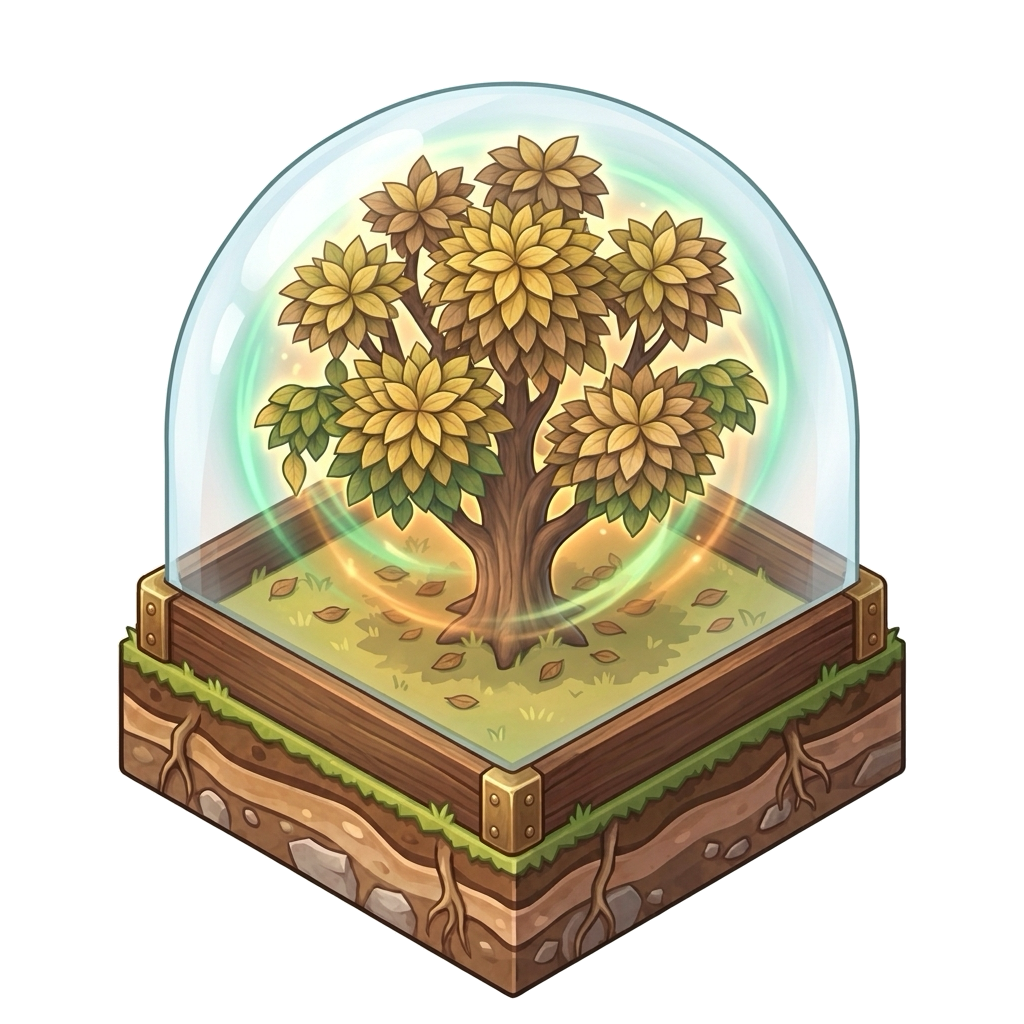
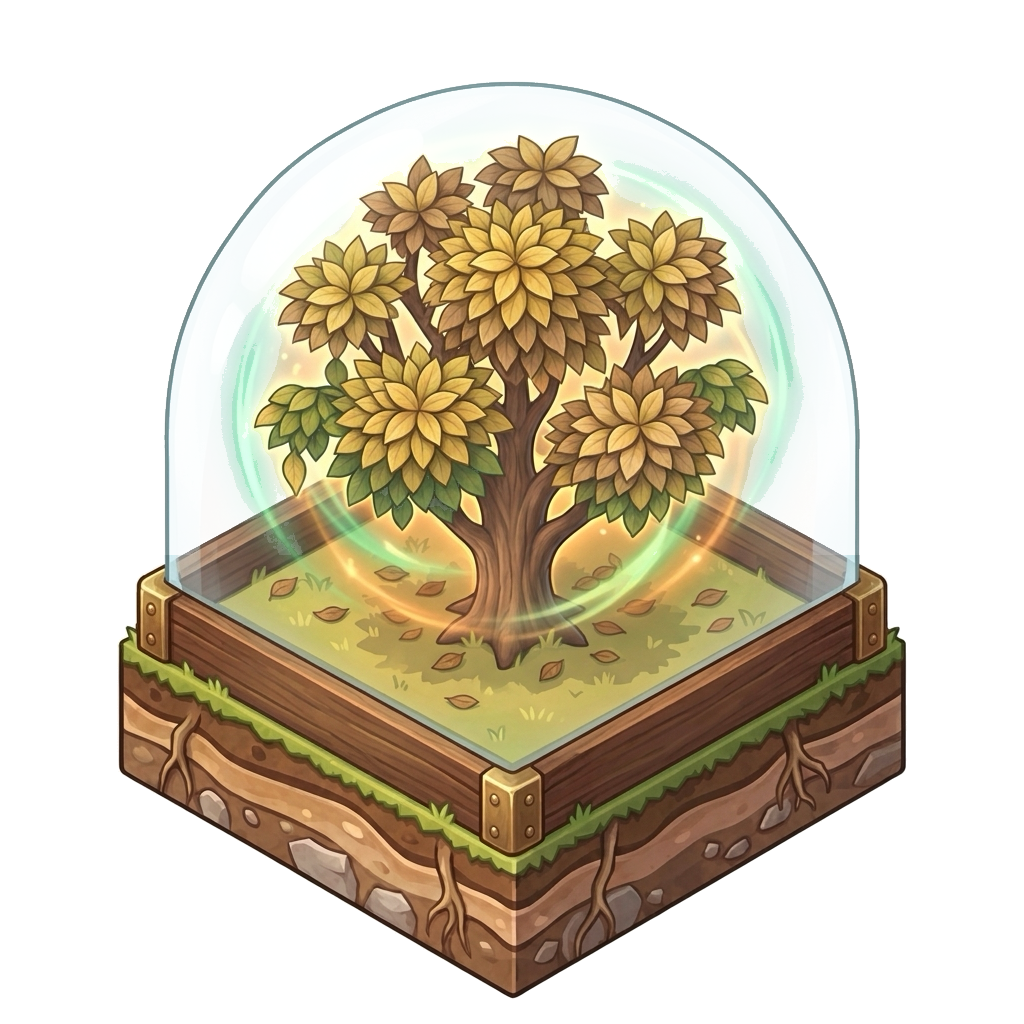
feat(farm): glass transparency, compact scale, adjacent tree cluster, and quarantine spotlight dimming

Changed region(s): [[0.3125, 0.0625, 0.8438, 0.5625], [0.1562, 0.1562, 0.3438, 0.5625], [0.4062, 0.4688, 0.4375, 0.5]]

diff --git a/src/app/farm/[id]/FarmClient.tsx b/src/app/farm/[id]/FarmClient.tsx
@@ -1248,7 +1248,7 @@ export default function FarmClient({
             .slice(0, 4);
     }, [primeTelemetry]);
 
-    // 🛡 Quarantined & Rescued Trees Dataset (Dynamic: 0, 1, 2, or 3 trees)
+    // 🛡 Quarantined & Rescued Trees Dataset (Dynamic: 0, 1, 2, or 3 trees placed adjacent to each other without middle gap)
     const quarantinePreviewList = useMemo(() => {
         const details = primeTelemetry?.quarantinedDetails || [];
         // If no quarantined pairs exist, return empty array (plot stays empty/natural soil)
@@ -1257,7 +1257,7 @@ export default function FarmClient({
         if (details.length === 1) {
             return [{
                 id: 'q_preview_center',
-                c: 2,
+                c: 2.0,
                 r: 5,
                 sym: details[0].sym,
                 ddPct: details[0].ddPct,
@@ -1269,10 +1269,11 @@ export default function FarmClient({
         }
 
         if (details.length === 2) {
+            // 2 Trees: Placed side-by-side touching each other without empty gap in the middle (c: 1.5 & c: 2.5)
             return [
                 {
                     id: 'q_preview_1',
-                    c: 1,
+                    c: 1.5,
                     r: 5,
                     sym: details[0].sym,
                     ddPct: details[0].ddPct,
@@ -1283,7 +1284,7 @@ export default function FarmClient({
                 },
                 {
                     id: 'q_preview_2',
-                    c: 3,
+                    c: 2.5,
                     r: 5,
                     sym: details[1].sym,
                     ddPct: details[1].ddPct,
@@ -1295,10 +1296,11 @@ export default function FarmClient({
             ];
         }
 
+        // 3 Trees: Clustered snugly and touching each other (c: 1.2, 2.0, 2.8)
         return [
             { 
                 id: 'q_preview_1', 
-                c: 1, 
+                c: 1.2, 
                 r: 5, 
                 sym: details[0]?.sym || 'EURJPY',
                 ddPct: details[0]?.ddPct ?? 14.20,
@@ -1309,7 +1311,7 @@ export default function FarmClient({
             },
             { 
                 id: 'q_preview_2', 
-                c: 2, 
+                c: 2.0, 
                 r: 5, 
                 sym: details[1]?.sym || 'GBPJPY',
                 ddPct: details[1]?.ddPct ?? 16.80,
@@ -1320,7 +1322,7 @@ export default function FarmClient({
             },
             { 
                 id: 'q_preview_3', 
-                c: 3, 
+                c: 2.8, 
                 r: 5, 
                 sym: details[2]?.sym || 'USDJPY',
                 ddPct: details[2]?.ddPct ?? 11.50,
@@ -1768,8 +1770,27 @@ export default function FarmClient({
                     style={{ transform: `scale(${isClient ? scale : 1})`, width: '100px', height: '100px' }}
                 >
                     <div className="absolute left-1/2 top-1/2 -ml-[140px] -mt-[360px]">
-                        {/* 🌾 THE ENTIRE MAIN FARM AREA (GENTLY FLOATING SLOWLY) */}
-                        <div className="animate-float-farm">
+                        {/* 🌑 SPOTLIGHT FOCUS BACKDROP WHEN QUARANTINE IS ACTIVE */}
+                        <div 
+                            onClick={(e) => {
+                                if (isQuarantineExpanded || isQuarantineEnlarged) {
+                                    handleCloseQuarantine(e);
+                                }
+                            }}
+                            className={`absolute inset-[-1500px] bg-black/45 backdrop-blur-[1px] transition-all duration-500 z-[19] ${
+                                (isQuarantineExpanded || isQuarantineEnlarged) 
+                                    ? 'opacity-100 pointer-events-auto cursor-pointer' 
+                                    : 'opacity-0 pointer-events-none'
+                            }`} 
+                            title="คลิกพื้นที่ว่างเพื่อกลับสู่มุมมองฟาร์มปกติ"
+                        />
+
+                        {/* 🌾 THE ENTIRE MAIN FARM AREA (GENTLY FLOATING SLOWLY, DIMMED WHEN QUARANTINE IS FOCUSED) */}
+                        <div className={`animate-float-farm transition-all duration-700 ease-out ${
+                            (isQuarantineExpanded || isQuarantineEnlarged)
+                                ? 'opacity-25 blur-[1.5px] brightness-75 scale-[0.98]'
+                                : 'opacity-100 blur-0 brightness-100 scale-100'
+                        }`}>
                         {Array.from({ length: 25 }).map((_, i) => {
                             const c = i % 5;
                             const r = Math.floor(i / 5);
@@ -2034,9 +2055,9 @@ export default function FarmClient({
                                     <div className="w-36 h-36 rounded-full bg-amber-400/15 group-hover:bg-amber-300/25 blur-xl animate-pulse delay-700 transition-all"></div>
                                 </div>
 
-                                {/* Greenhouse Dome Graphic with subtle hover feedback */}
+                                {/* Greenhouse Dome Graphic: Compact & clean scale with subtle hover feedback */}
                                 <div 
-                                    className="absolute inset-0 scale-[0.94] origin-bottom transition-transform duration-300 group-hover:scale-[0.98] drop-shadow-[0_12px_28px_rgba(0,0,0,0.85)]" 
+                                    className="absolute inset-0 scale-[0.78] origin-bottom transition-transform duration-300 group-hover:scale-[0.82] drop-shadow-[0_12px_28px_rgba(0,0,0,0.85)]" 
                                     style={{ marginTop: `${TREE_Y_OFFSET}px` }}
                                 >
                                     <Image
@@ -2053,7 +2074,7 @@ export default function FarmClient({
 
                         {/* 🛡 QUARANTINE & RESCUE PREVIEW TREES (กระจายแสดงเฉพาะเมื่อคลิกขยาย isQuarantineExpanded เท่านั้น) */}
                         {isClient && (portNumber === '97053088' || isPrime) && isQuarantineExpanded && quarantinePreviewList.map((qTree) => {
-                            const tZIndex = (qTree.c + qTree.r) + 20;
+                            const tZIndex = Math.round(qTree.c + qTree.r) + 20;
                             return (
                                 <div
                                     key={`tree_${qTree.id}`}
@@ -2066,8 +2087,8 @@ export default function FarmClient({
                                         height: '280px'
                                     }}
                                 >
-                                    {/* Tree Graphic (Scale down 6% so it's not overly prominent, anchored to ground) */}
-                                    <div className="absolute inset-0 scale-[0.94] origin-bottom" style={{ marginTop: `${TREE_Y_OFFSET}px` }}>
+                                    {/* Tree Graphic: Compact scale (scale-[0.75]) to sit close and not overwhelm the farm */}
+                                    <div className="absolute inset-0 scale-[0.75] origin-bottom transition-all duration-300" style={{ marginTop: `${TREE_Y_OFFSET}px` }}>
                                         <Image
                                             src={qTree.src}
                                             alt={qTree.alt}

diff --git a/src/app/admin/easym-prime-farm/page.tsx b/src/app/admin/easym-prime-farm/page.tsx
@@ -641,11 +641,11 @@ export default function AdminPrimeFarmLabPage() {
             .slice(0, 4);
     }, [telemetry]);
 
-    // 🛡 3 Quarantined & Rescued Trees Dataset
+    // 🛡 3 Quarantined & Rescued Trees Dataset (Adjacent without middle gap)
     const quarantinePreviewList = useMemo(() => [
         { 
             id: 'q_preview_1', 
-            c: 1, 
+            c: 1.2, 
             r: 5, 
             sym: 'EURJPY',
             ddPct: 14.20,
@@ -656,7 +656,7 @@ export default function AdminPrimeFarmLabPage() {
         },
         { 
             id: 'q_preview_2', 
-            c: 2, 
+            c: 2.0, 
             r: 5, 
             sym: 'GBPJPY',
             ddPct: 16.80,
@@ -667,7 +667,7 @@ export default function AdminPrimeFarmLabPage() {
         },
         { 
             id: 'q_preview_3', 
-            c: 3, 
+            c: 2.8, 
             r: 5, 
             sym: 'USDJPY',
             ddPct: 11.50,
@@ -1174,8 +1174,27 @@ export default function AdminPrimeFarmLabPage() {
                     style={{ transform: `scale(${isClient ? scale : 1})`, width: '100px', height: '100px' }}
                 >
                     <div className="absolute left-1/2 top-1/2 -ml-[140px] -mt-[360px]">
-                        {/* 🌾 THE ENTIRE MAIN FARM AREA (GENTLY FLOATING SLOWLY) */}
-                        <div className="animate-float-farm">
+                        {/* 🌑 SPOTLIGHT FOCUS BACKDROP WHEN QUARANTINE IS ACTIVE */}
+                        <div 
+                            onClick={(e) => {
+                                if (isQuarantineExpanded || isQuarantineEnlarged) {
+                                    handleCloseQuarantine(e);
+                                }
+                            }}
+                            className={`absolute inset-[-1500px] bg-black/45 backdrop-blur-[1px] transition-all duration-500 z-[19] ${
+                                (isQuarantineExpanded || isQuarantineEnlarged) 
+                                    ? 'opacity-100 pointer-events-auto cursor-pointer' 
+                                    : 'opacity-0 pointer-events-none'
+                            }`} 
+                            title="คลิกพื้นที่ว่างเพื่อกลับสู่มุมมองฟาร์มปกติ"
+                        />
+
+                        {/* 🌾 THE ENTIRE MAIN FARM AREA (GENTLY FLOATING SLOWLY, DIMMED WHEN QUARANTINE IS FOCUSED) */}
+                        <div className={`animate-float-farm transition-all duration-700 ease-out ${
+                            (isQuarantineExpanded || isQuarantineEnlarged)
+                                ? 'opacity-25 blur-[1.5px] brightness-75 scale-[0.98]'
+                                : 'opacity-100 blur-0 brightness-100 scale-100'
+                        }`}>
                         {Array.from({ length: 25 }).map((_, i) => {
                             const c = i % 5;
                             const r = Math.floor(i / 5);
@@ -1448,9 +1467,9 @@ export default function AdminPrimeFarmLabPage() {
                                     <div className="w-36 h-36 rounded-full bg-amber-400/15 group-hover:bg-amber-300/25 blur-xl animate-pulse delay-700 transition-all"></div>
                                 </div>
 
-                                {/* Greenhouse Dome Graphic with subtle hover feedback */}
+                                {/* Greenhouse Dome Graphic: Compact & clean scale with subtle hover feedback */}
                                 <div 
-                                    className="absolute inset-0 scale-[0.94] origin-bottom transition-transform duration-300 group-hover:scale-[0.98] drop-shadow-[0_12px_28px_rgba(0,0,0,0.85)]" 
+                                    className="absolute inset-0 scale-[0.78] origin-bottom transition-transform duration-300 group-hover:scale-[0.82] drop-shadow-[0_12px_28px_rgba(0,0,0,0.85)]" 
                                     style={{ marginTop: `${TREE_Y_OFFSET}px` }}
                                 >
                                     <Image
@@ -1467,7 +1486,7 @@ export default function AdminPrimeFarmLabPage() {
 
                         {/* 🛡 QUARANTINE & RESCUE PREVIEW TREES (กระจายแสดงเฉพาะเมื่อคลิกขยาย isQuarantineExpanded เท่านั้น) */}
                         {isClient && isQuarantineExpanded && quarantinePreviewList.map((qTree) => {
-                            const tZIndex = (qTree.c + qTree.r) + 20;
+                            const tZIndex = Math.round(qTree.c + qTree.r) + 20;
                             return (
                                 <div
                                     key={`tree_${qTree.id}`}
@@ -1480,8 +1499,8 @@ export default function AdminPrimeFarmLabPage() {
                                         height: '280px'
                                     }}
                                 >
-                                    {/* Tree Graphic (Scale down 6% so it's not overly prominent, anchored to ground) */}
-                                    <div className="absolute inset-0 scale-[0.94] origin-bottom" style={{ marginTop: `${TREE_Y_OFFSET}px` }}>
+                                    {/* Tree Graphic: Compact scale (scale-[0.75]) to sit close and not overwhelm the farm */}
+                                    <div className="absolute inset-0 scale-[0.75] origin-bottom transition-all duration-300" style={{ marginTop: `${TREE_Y_OFFSET}px` }}>
                                         <Image
                                             src={qTree.src}
                                             alt={qTree.alt}
